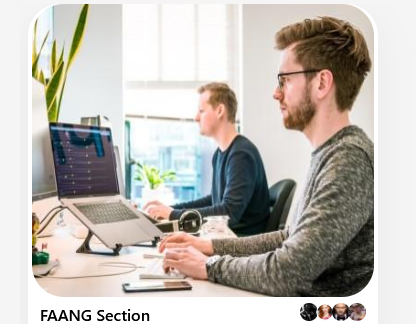
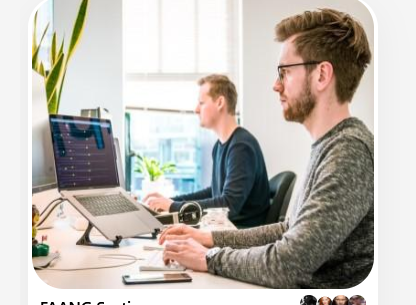
g

diff --git a/src/Components/Home/Home.tsx b/src/Components/Home/Home.tsx
@@ -180,9 +180,10 @@ function Home() {
                   About Me
                 </h1>
               </div>
-              <div className="flex flex-wrap mt-7 mb-2 justify-center row">
-                <div className="w-full md:w-72 mb-2">
-                  <div className="abtImg mx-auto">
+
+              <div className="flex flex-wrap abtbdy mt-7 mb-2 flex-col">
+                <div className="w-full flex mb-2 abtdimg">
+                  <div className="abtImg">
                     <img
                       className="h-100 dark:grayscale"
                       src={require("../../Assets/me.jpg")}
@@ -190,50 +191,50 @@ function Home() {
                       alt="L-dot"
                     />
                   </div>
+
+                  <div className="abttext ml-5">
+                    <p className="text-left text-md lg:text-lg">
+                      {" "}
+                      My Name is Ojediran Lawrence. <br /> A Software Engineer
+                      with deep passion for design and development of software
+                      products.
+                    </p>
+
+                    <p className="text-left text-md sm:text-lg">
+                      I Design and Build Profesional, Interactive and Responsive
+                      Websites and Web Applications. I also design web
+                      applications with topnotch user experience and user
+                      interfaces.
+                    </p>
+                  </div>
                 </div>
 
-                <div className="w-full my-auto lg:w-96 sm:mt-2 font-sans abttext">
-                  <p className="text-left text-md lg:text-lg">
-                    {" "}
-                    My Name is Ojediran Lawrence. <br /> A Software Engineer
-                    with deep passion for design and development of software
-                    products.
-                  </p>
-
-                  <p className="text-left text-md sm:text-lg">
-                    I Design and Build Profesional, Interactive and Responsive
-                    Websites and Web Applications. I also design web
-                    applications with topnotch user experience and user
-                    interfaces.
-                  </p>
+                <div className="myInfo flex my-2">
+                  <ul className="infoList flex grid sm:grid-cols-2 text-left justify-left text-md sm:text-lg font-sans">
+                    <li className="infoBirtday">
+                      <AiFillGift /> Birthday: 28th August
+                    </li>
+                    <li className="infoInterest">
+                      <FaGamepad />
+                      Interests: Gaming, Reading
+                    </li>
+                    <li className="infoDegree flex">
+                      <FaGraduationCap /> Degree: B.Eng Computer Engineering
+                    </li>
+                    <li className="infoSchool flex">
+                      <FaSchool color="red" />
+                      School: Olabisi Onabanjo University
+                    </li>
+                    <li className="infoLocation">
+                      <FaLocationArrow />
+                      Location: Lagos, Nigeria
+                    </li>
+                    <li className="infoMail">
+                      <AiFillMail />
+                      Email: damilareojediran3@gmail.com
+                    </li>
+                  </ul>
                 </div>
-              </div>
-
-              <div className="myInfo flex sm:justify-center my-2">
-                <ul className="infoList flex grid sm:grid-cols-2 text-left justify-left text-md sm:text-lg font-sans">
-                  <li className="infoBirtday">
-                    <AiFillGift /> Birthday: 28th August
-                  </li>
-                  <li className="infoInterest">
-                    <FaGamepad />
-                    Interests: Gaming, Reading
-                  </li>
-                  <li className="infoDegree flex">
-                    <FaGraduationCap /> Degree: B.Eng Computer Engineering
-                  </li>
-                  <li className="infoSchool flex">
-                    <FaSchool color="red" />
-                    School: Olabisi Onabanjo University
-                  </li>
-                  <li className="infoLocation">
-                    <FaLocationArrow />
-                    Location: Lagos, Nigeria
-                  </li>
-                  <li className="infoMail">
-                    <AiFillMail />
-                    Email: damilareojediran3@gmail.com
-                  </li>
-                </ul>
               </div>
             </div>
           </Fade>
@@ -326,7 +327,7 @@ function Home() {
 
         <div className="projContents  py-20 bg-light dark:bg-dark container-m">
           <div className="myProj" id="projects">
-            <div className="projHead flex justify-center">
+            <div className="projHead mb-5 flex justify-center">
               <h1 className="text-4xl md:text-5xl font-bold text-white border-left">
                 Recent Projects
               </h1>

diff --git a/src/Components/Home/Home.css b/src/Components/Home/Home.css
@@ -1,8 +1,13 @@
-.Home {
+.App {
   overflow-x: hidden;
   min-width: 320px;
-  max-width: 85rem;
+  max-width: 90rem;
   margin: 0 auto;
+}
+
+.abtdimg {
+  max-height: 225px;
+  max-height: 210px;
 }
 
 .intro h2 {
@@ -11,6 +16,11 @@
 
 .pointer {
   cursor: pointer;
+}
+
+.abtbdy {
+  max-width: 800px;
+    margin: 33px auto;
 }
 
 .navToggler {
@@ -93,18 +103,19 @@
   width: 26px;
 }
 
-  .abtImg {
-    border: 5px groove black;
-    border-radius: 8px;
-    max-width: 230px;
-    margin-left: auto;
-    height: 90%;
+.abtImg {
+  border: 2px groove black;
+  border-radius: 10px;
+  max-width: 230px;
+  margin-left: auto;
+  box-shadow: 1px 0.5px 16px 1px rgb(54, 54, 54);
 }
 
 
 .abtImg img {
   height: 100%;
   width: 100%;
+  border-radius: 10px;
 }
 
 .intro {
